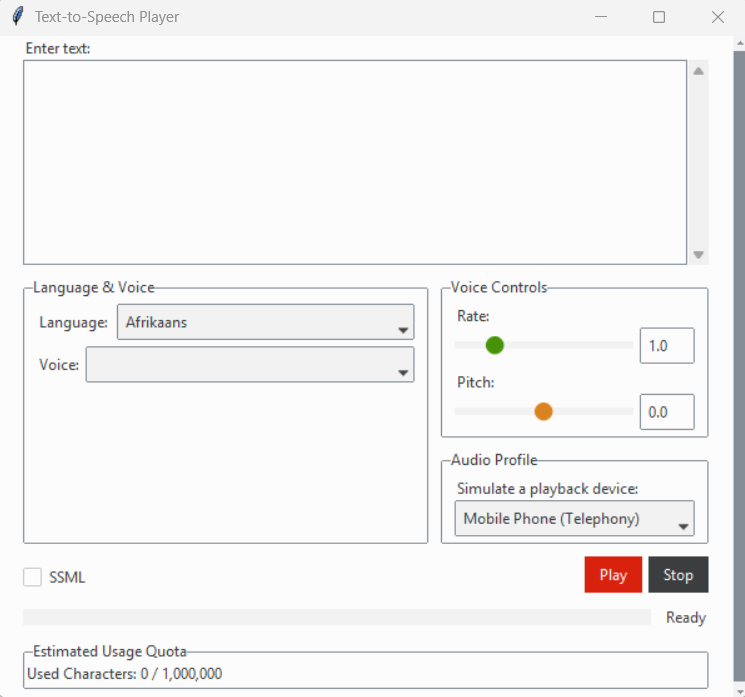
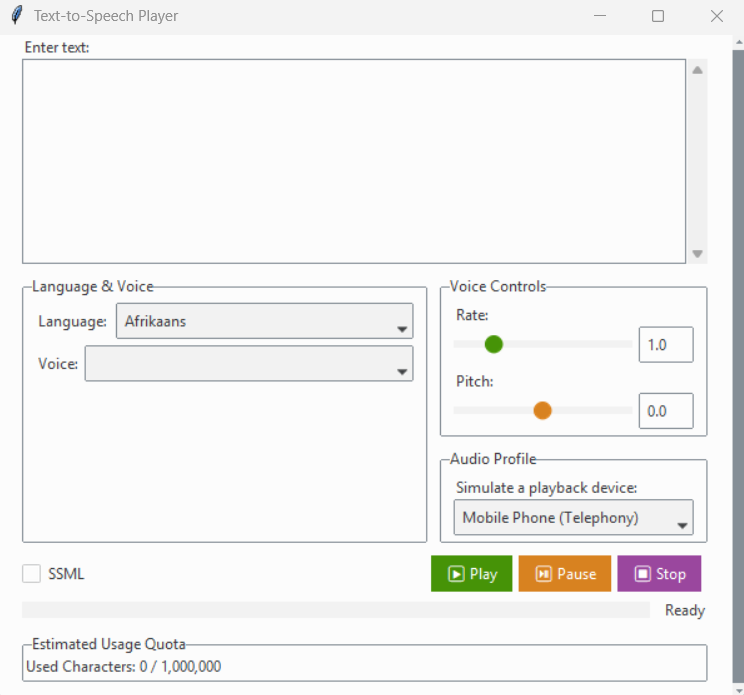
Add pause/resume buttons

diff --git a/src/gui/app.py b/src/gui/app.py
@@ -21,6 +21,7 @@ class TTSApp(tk.Tk):
         self.title("Text-to-Speech Player")
         self._set_platform_specifics()
         self.is_playing = False
+        self.is_paused = False
         self._init_audio()
         self.logger = setup_logger()
                 
@@ -161,18 +162,28 @@ class TTSApp(tk.Tk):
         self.audio_profile_dropdown.pack(fill=tk.X)
     
     def _setup_control_buttons(self, parent):
-        """Create and pack audio control buttons: Play, Stop, and SSML toggle.""" 
+        """Create and pack audio control buttons""" 
         control_frame = ttk.Frame(parent)
         control_frame.pack(fill=tk.X)
 
+        # SSML Toggle
         self.ssml_var = tk.BooleanVar(value=False)
         ttk.Checkbutton(control_frame, text="SSML", variable=self.ssml_var).pack(side=tk.LEFT)
 
-        ttk.Button(control_frame, text="Stop", command=self.stop_audio,
-                style="dark.TButton").pack(side=tk.RIGHT, padx=(5, 0), pady=(0, 5))
-
-        ttk.Button(control_frame, text="Play", command=self.play_audio,
-                style="accent.TButton").pack(side=tk.RIGHT, pady=(0, 5))
+        # Control Buttons
+        button_frame = ttk.Frame(control_frame)
+        button_frame.pack(side=tk.RIGHT)
+        
+        ttk.Button(button_frame, text="⏹ Stop", command=self.stop_audio,
+                style="danger.TButton").pack(side=tk.RIGHT, padx=(0, 5))
+    
+        self.pause_button = ttk.Button(button_frame, text="⏯ Pause", 
+                                    command=self.toggle_pause,
+                                    style="warning.TButton")
+        self.pause_button.pack(side=tk.RIGHT, padx=5)  
+        
+        ttk.Button(button_frame, text="▶ Play", command=self.play_audio,
+              style="success.TButton").pack(side=tk.RIGHT, padx=(5, 0))
     
     def _setup_status_bar(self, parent):
         """Create a status bar and quota panel at the bottom."""
@@ -207,11 +218,16 @@ class TTSApp(tk.Tk):
             self.pitch_var.set(f"{self.pitch_slider.get():.1f}")
         self.pitch_slider.bind("<B1-Motion>", update_pitch_entry)
         self.pitch_slider.bind("<ButtonRelease-1>", update_pitch_entry)
+        
+        self.bind("<space>", lambda e: self.toggle_pause())
+        self.bind("<s>", lambda e: self.stop_audio())
+        self.bind("<p>", lambda e: self.play_audio())
 
     def update_status_meter(self, progress, status_text):
         self.progress_var.set(progress)
         self.status_label.config(text=status_text)
         self.update_idletasks()
+        self.update()
     
     def _update_voices(self, event=None):
         """Update available voices when language changes"""       
@@ -236,21 +252,19 @@ class TTSApp(tk.Tk):
         
     def play_audio(self):
         """Generate and play audio directly"""
+        self.stop_audio()
         self.update_status_meter(10, "Generating...")
-        self.update()
 
         text = self.text_editor.get_text()
         if not text:
             messagebox.showwarning("Input Error", "Please enter some text to convert to speech.")
             self.update_status_meter(0, "Input Error")
-            self.update()
             return
             
         voice_data = self.voice_dropdown.get_selected_voice()
         if not voice_data:
             messagebox.showwarning("Voice Error", "Please select a voice.")
             self.update_status_meter(0, "Input Error")
-            self.update()
             return
         
         voice_params = {
@@ -262,7 +276,6 @@ class TTSApp(tk.Tk):
         is_ssml = self.ssml_var.get()
         audio_content = None
         self.update_status_meter(30, "Generating...")
-        self.update()
 
         try:
             try:
@@ -278,7 +291,6 @@ class TTSApp(tk.Tk):
                     "Speaking rate must be between 0.25 and 4.0.\n\nNote: Some voices only support rate between 0.25 and 2.0."
                     )
                 self.update_status_meter(0, "Invalid Rate")
-                self.update()
                 return
             
             if not (-20.0 <= pitch <= 20.0):
@@ -287,11 +299,9 @@ class TTSApp(tk.Tk):
                     "Pitch must be between -20 and 20.\n\nNote: Some voices do not support custom pitch values."
                     )
                 self.update_status_meter(0, "Invalid Pitch")
-                self.update()
                 return
 
             self.update_status_meter(50, "Generating...")
-            self.update()
             
             selected_profile = self.audio_profile_dropdown.get_selected_profile()
             effects_profile_id = [selected_profile] if selected_profile else None
@@ -316,7 +326,6 @@ class TTSApp(tk.Tk):
                 )
 
             self.update_status_meter(80, "Generating...")
-            self.update()
             self._play_audio_content(audio_content)
 
         except RuntimeError as e:
@@ -325,11 +334,9 @@ class TTSApp(tk.Tk):
             else:
                 messagebox.showerror("Generation Error", f"Failed to generate speech:\n{str(e)}")
                 self.update_status_meter(0, "Generation Error")
-                self.update()
         except Exception as e:
             messagebox.showerror("Generation Error", f"Failed to generate speech:\n{str(e)}")
             self.update_status_meter(0, "Generation Error")
-            self.update()
         
     def _play_audio_content(self, audio_content):
         """Play audio from binary content"""
@@ -340,34 +347,54 @@ class TTSApp(tk.Tk):
             pygame.mixer.music.load(audio_file)
             pygame.mixer.music.play()
             self.is_playing = True
+            self.is_paused = False
+            self.pause_button.config(text="Pause")
             self.update_status_meter(100, "Playing audio...")
-            self.update()
             self.after(100, self._check_playback_status)
 
         except Exception as e:
             self.is_playing = False
             messagebox.showerror("Playback Error", f"Could not play audio: {str(e)}")
+            self.update_status_meter(0, "Playback Error")
             raise
     
+    def toggle_pause(self):
+        """Toggle between pause and resume"""
+        if not self.is_playing:
+            messagebox.showinfo("Info", "No audio is currently playing")
+            return
+    
+        if self.is_paused:
+            pygame.mixer.music.unpause()
+            self.is_paused = False
+            self.pause_button.config(text="Pause")
+            self.update_status_meter(100, "Playing audio...")
+        else:
+            pygame.mixer.music.pause()
+            self.is_paused = True
+            self.pause_button.config(text="Resume")
+            self.update_status_meter(50, "Paused")
+                
     def _check_playback_status(self):
         """Check if audio is still playing"""
+        if self.is_paused:
+            return
+
         if pygame.mixer.music.get_busy():
             self.after(100, self._check_playback_status)
         else:
             self.is_playing = False
             self.update_status_meter(0, "Ready")
-            self.update()
 
     def stop_audio(self):
         """Stop currently playing audio"""
         try:
-            if pygame.mixer.music.get_busy():
-                pygame.mixer.music.stop()
-                self.is_playing = False
-                self.update_status_meter(100, "Playback stopped.")
-                self.update()
-                self.after(3000, lambda: self.update_status_meter(0, "Ready"))
-                self.update()
+            pygame.mixer.music.stop()
+            self.is_playing = False
+            self.is_paused = False
+            self.pause_button.config(text="Pause")
+            self.update_status_meter(100, "Playback stopped.")
+            self.after(3000, lambda: self.update_status_meter(0, "Ready"))
         except Exception as e:
             messagebox.showerror("Stop Error", f"Could not stop audio: {str(e)}")
 
@@ -376,7 +403,6 @@ class TTSApp(tk.Tk):
         self.update_status_meter(0, "Voice doesn't support SSML - using plain text")
         self.update_idletasks()
         self.after(3000, lambda: self.update_status_meter(0, "Ready"))
-        self.update()
 
     def _on_reopen(self):
         """Handle macOS app reopen event (for App Store)"""

diff --git a/TTS_App_Release/README.md b/TTS_App_Release/README.md
@@ -82,10 +82,10 @@ Type or paste your text into the main text box:
 
 ### 3. Control Playback
 
-| Button      | Action                     |
-| ----------- | -------------------------- |
-| ▶ **Play** | Generates and plays audio  |
-| ⏹ **Stop**  | Immediately stops playback |
+| Button       | Action                     |
+| ------------ | -------------------------- |
+| ▶ **Play**  | Generates and plays audio  |
+| ⏹ **Cancel** | Immediately stops playback |
 
 ### 4. Advanced Options
 

diff --git a/README.md b/README.md
@@ -123,6 +123,7 @@ A cross-platform app for converting text to speech using cloud TTS services.
 
 - Click ▶ Play to start
 - Click ⏹ Stop to cancel
+- Click ⏯ Pause/Resume to toggle playback
 - Quota usage(estimated) updates automatically
 
 > ## ⚠ **Note**
